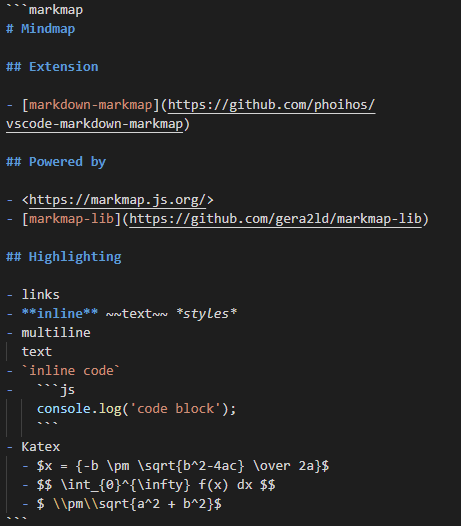
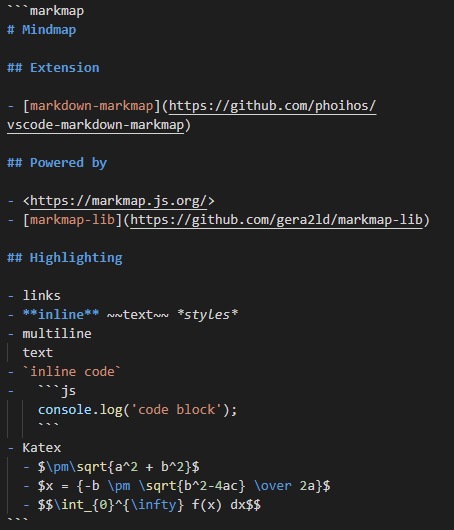
Update version to `v1.4.3`
- Updated: Screenshots

diff --git a/CHANGELOG.md b/CHANGELOG.md
@@ -2,7 +2,7 @@
 
 All notable changes to the "Markdown Preview Markmap Support" extension will be documented in this file.
 
-## [Unreleased]
+## [1.4.3] - 2021-07-16
 
 - Updated : `color` attribute feature to stable
 - Added : KaTeX (Math Formula) syntax highlighting same as VS Code in VS Code 1.58+
